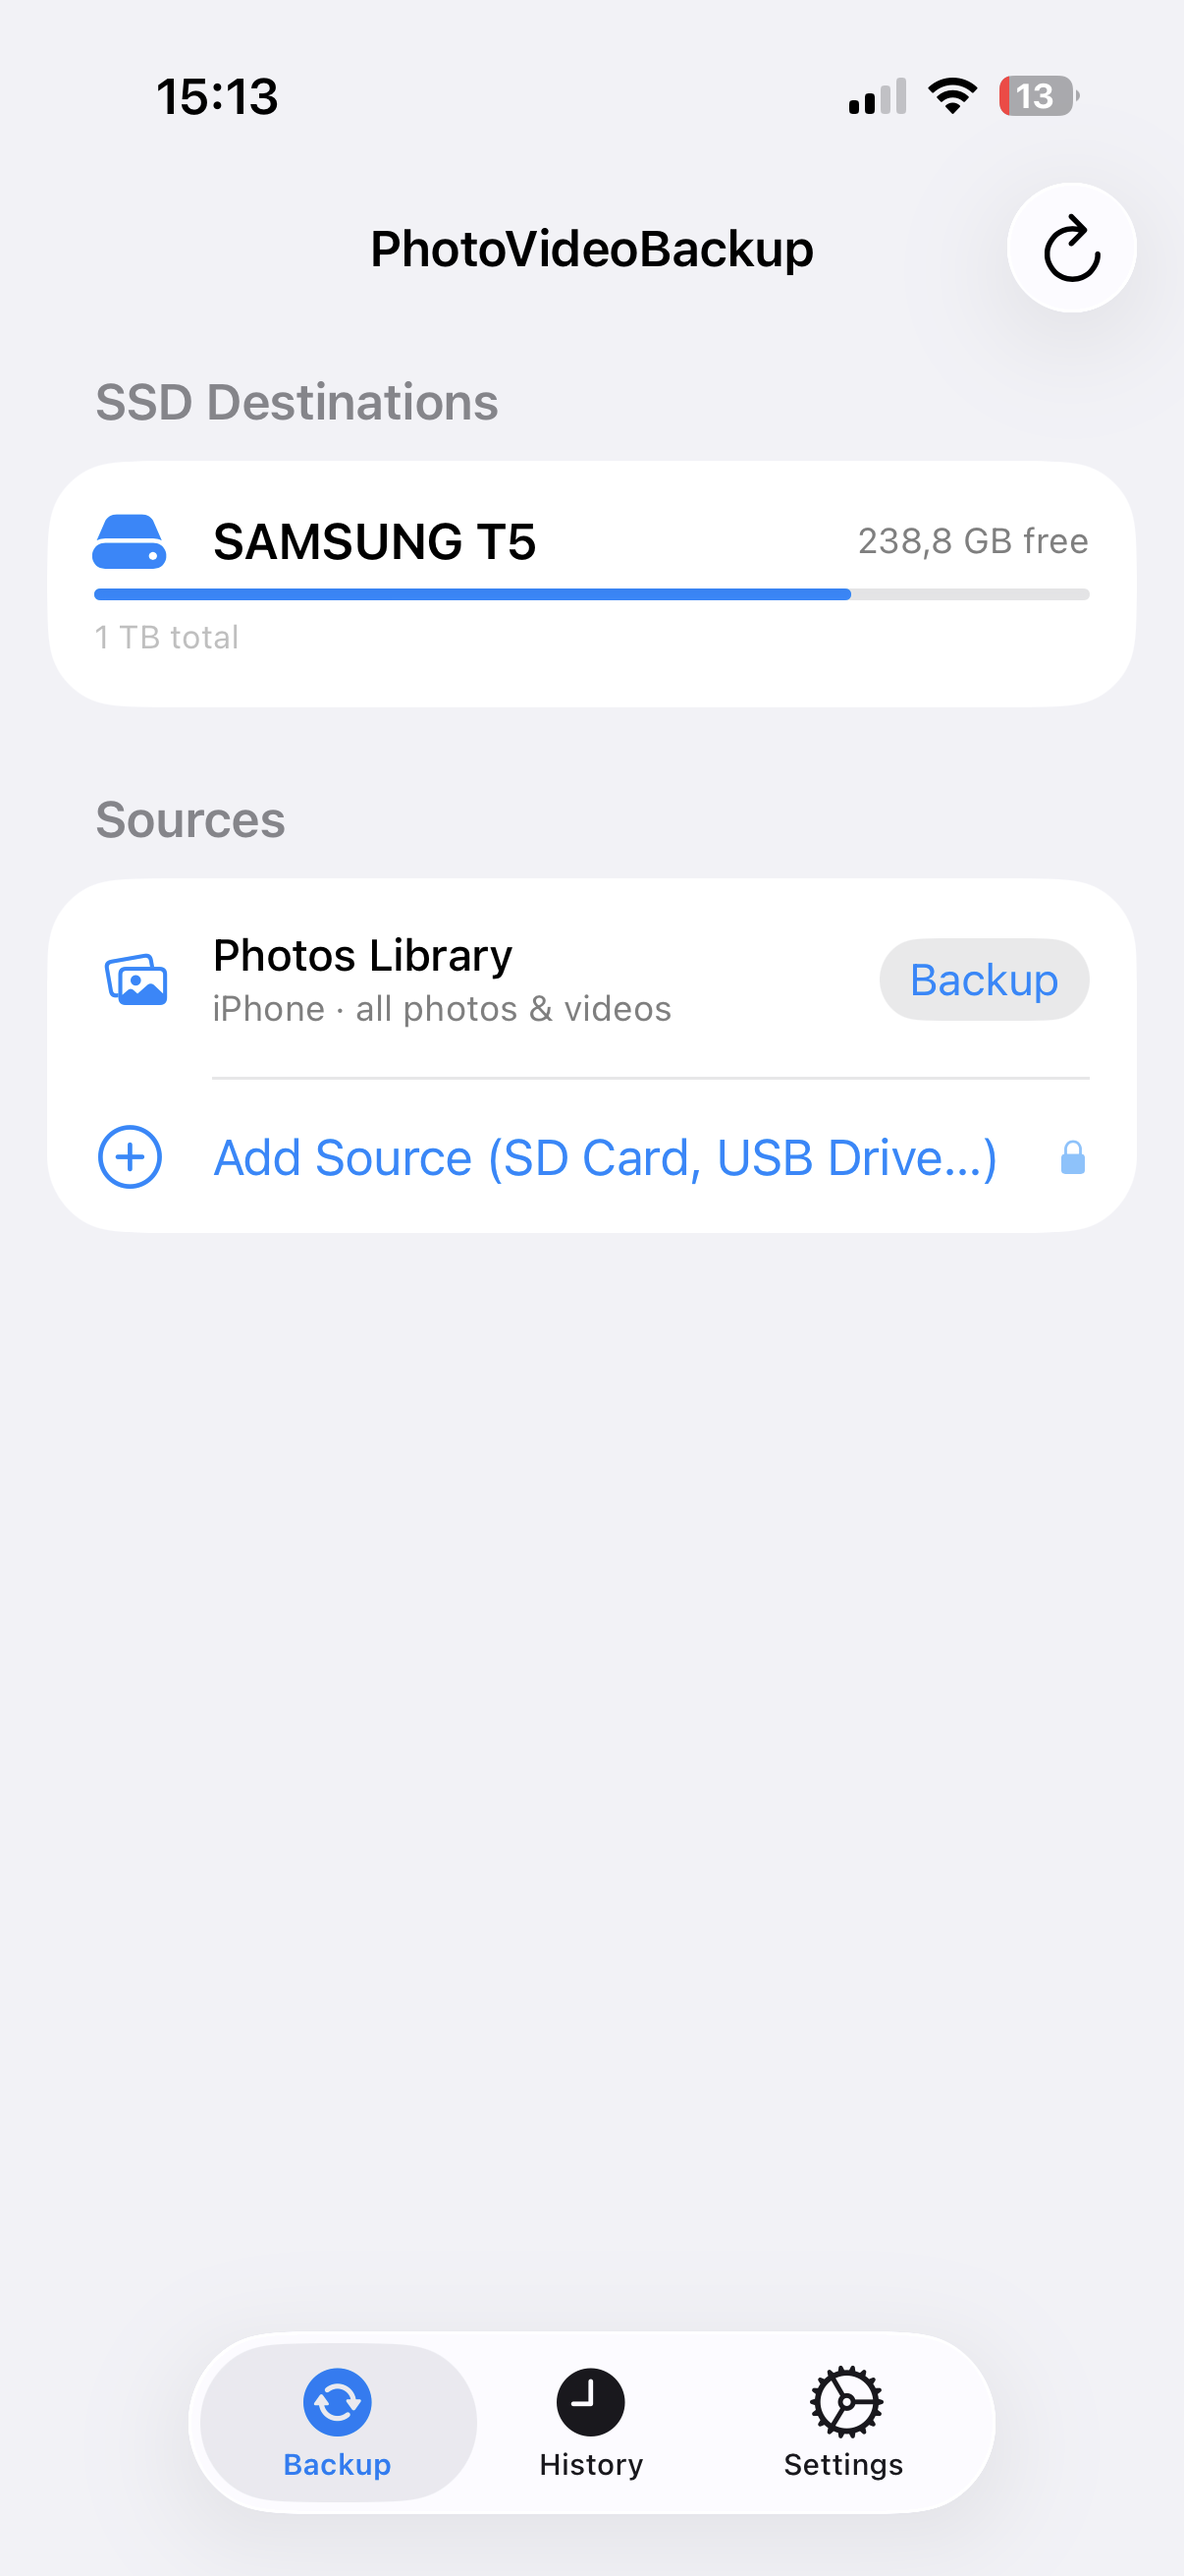
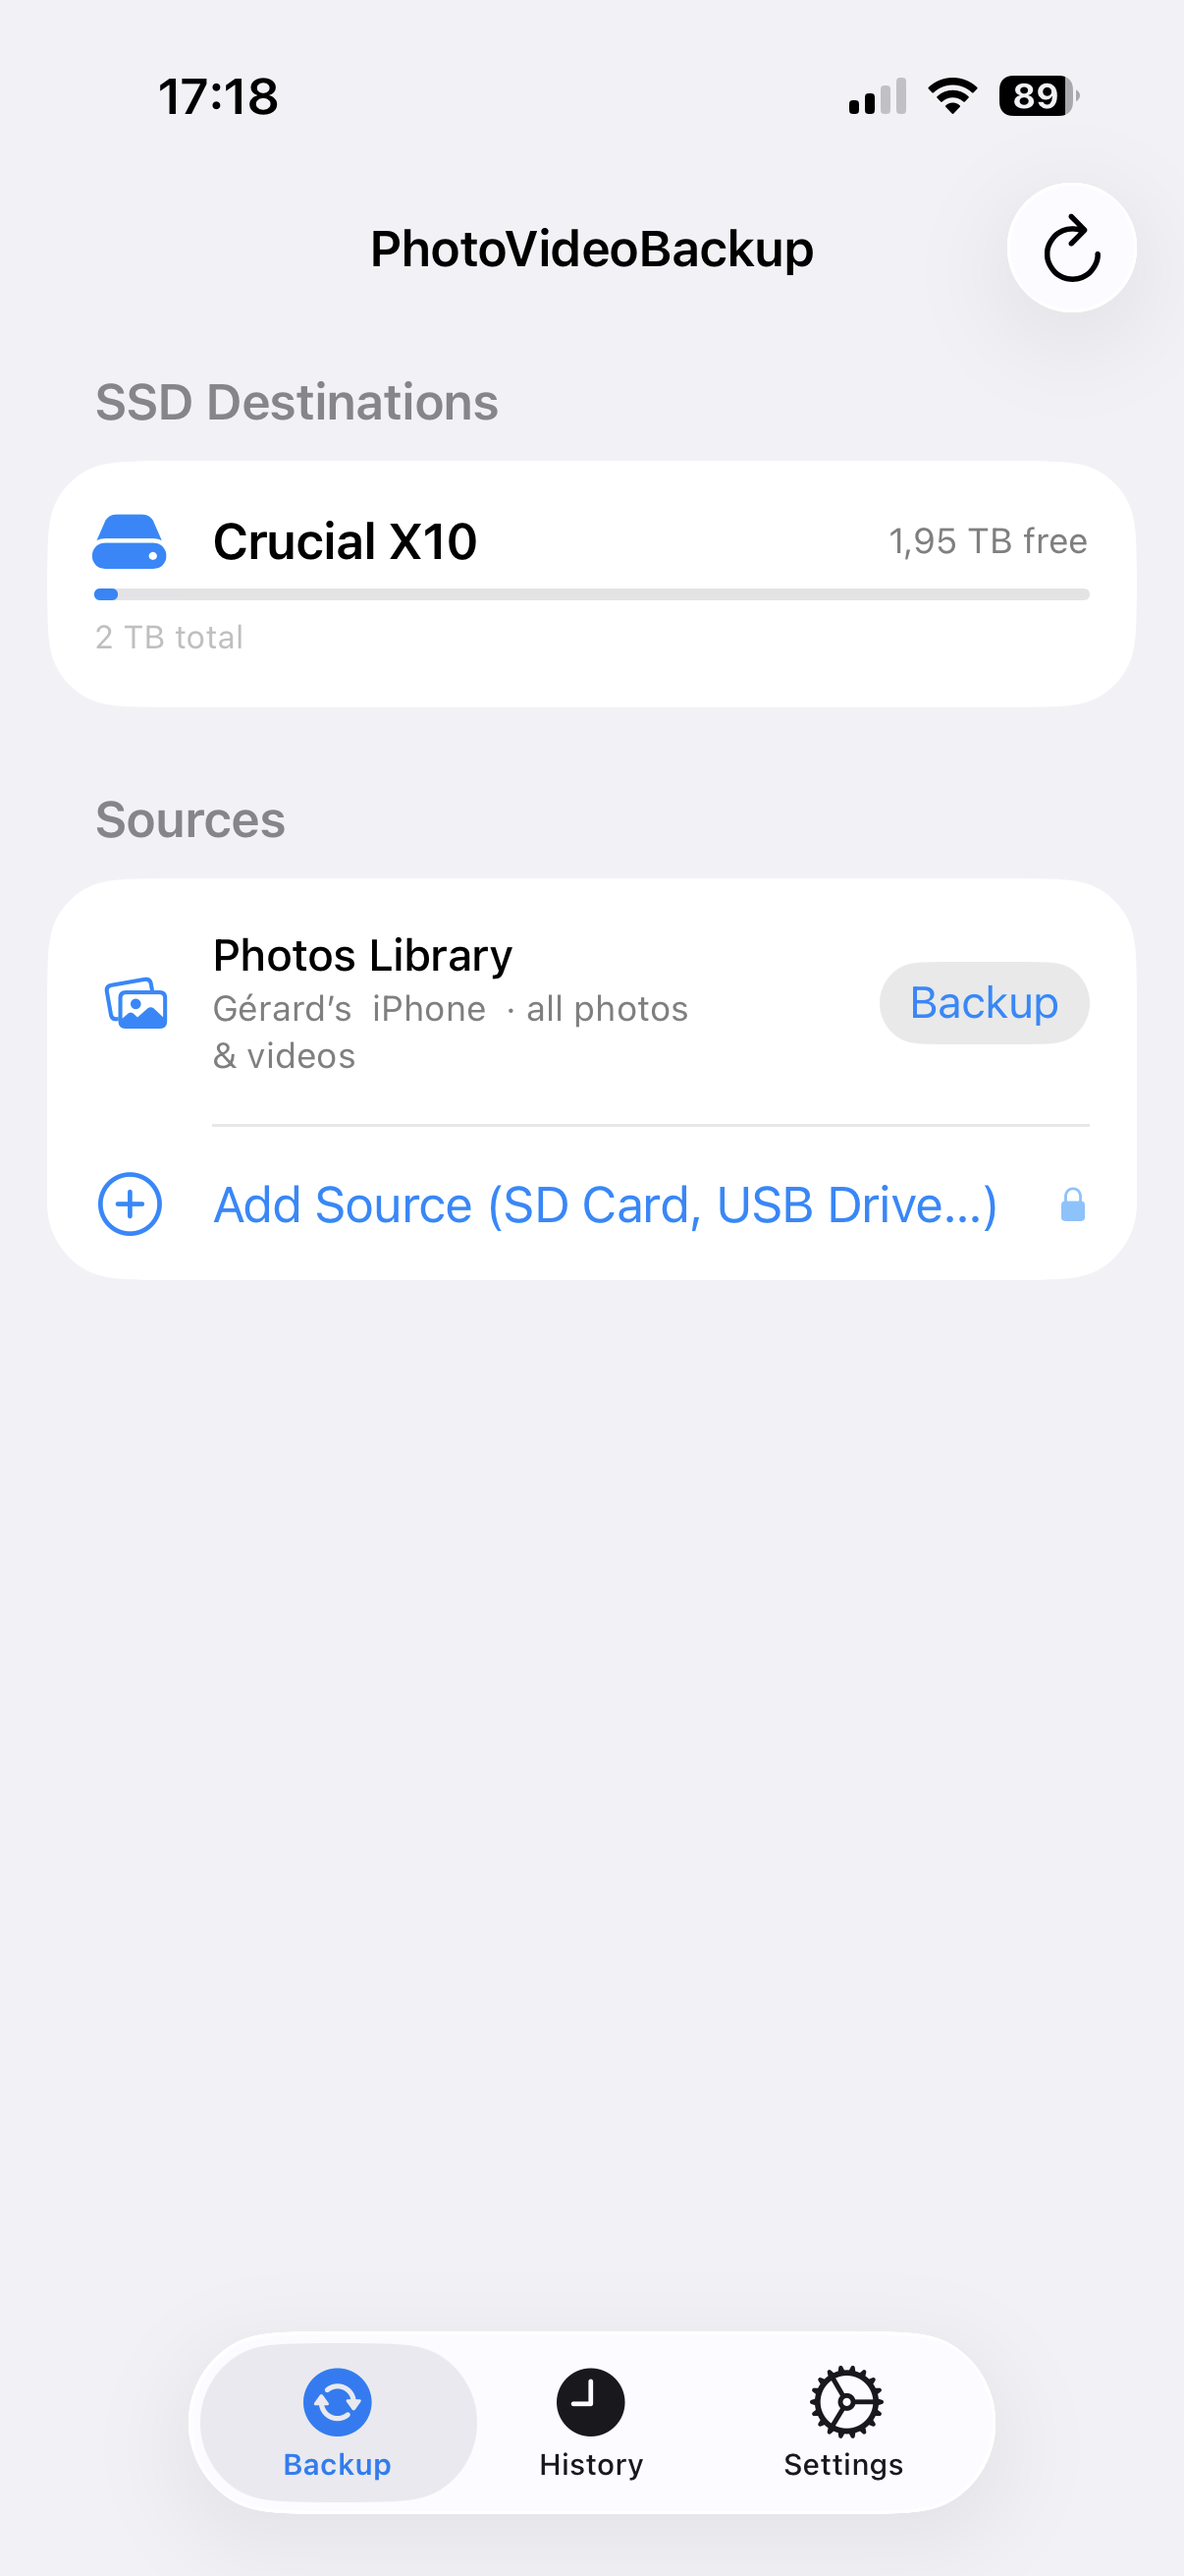
Update documentation with device name feature and new screenshots

diff --git a/index.md b/index.md
@@ -79,23 +79,25 @@ Tap **Allow Full Access**. Without this permission, the app cannot read your pho
 
 ## 5. Setting Up Your SSD
 
-Before you can back anything up, you need to tell the app where to save the files — that is, which folder on your SSD to use.
+Before you can back anything up, you need to tell the app where to save the files and give your device a name.
 
-### Step 1 — Plug in your SSD
-
-Connect your SSD to your iPhone using its USB-C cable.
-
-### Step 2 — Open Settings
+### Step 1 — Name your device
 
 Tap the **Settings** tab at the bottom of the screen (the gear icon).
 
-![Settings tab — no SSD configured yet](images/settings_empty.png)
+At the top of the page you will see an **iPhone / iPad** section with a **Folder name** field. Tap it and type a name that identifies your device — for example **iPhone de Gérard** or **iPad Pro Camille**.
 
-Both destination slots show "Not configured". This is normal the first time.
+![Settings — Folder name field](images/settings_device_name.png)
+
+> **This name is used as the folder name on the SSD.** If two people back up to the same SSD, each device needs a different name so their files stay separate. The app will not start a backup until a name is set.
+
+### Step 2 — Plug in your SSD
+
+Connect your SSD to your iPhone using its USB-C cable.
 
 ### Step 3 — Choose a destination folder
 
-Tap **Choose…** next to "SSD 1 (primary)".
+Below the device name, the **SSD Destinations** section shows two slots. Tap **Choose…** next to "SSD 1 (primary)".
 
 A file browser will open. Navigate to your SSD — it will appear in the list of locations. Tap on it to select the top-level folder (or a specific folder inside it if you prefer to keep things organised).
 
@@ -121,7 +123,11 @@ At the top you will see your SSD with its name, how much space is free, and a ba
 
 ### Step 2 — Start the backup
 
-In the **Sources** section, find the **Photos Library** row. It shows your iPhone name (for example "iPhone · all photos & videos").
+In the **Sources** section, find the **Photos Library** row. It shows the device name you set in Settings (for example "iPhone de Gérard · all photos & videos").
+
+> If you see "Nom non configuré" and an orange warning (see below), go to Settings and fill in the **Folder name** field first.
+
+![Dashboard — device name not configured](images/dashboard_no_device_name.png)
 
 Tap the **Backup** button on that row.
 
@@ -276,7 +282,7 @@ Your SSD is either not plugged in, or you have not set up a destination folder y
 Those photos are stored in iCloud and are not fully downloaded on your iPhone. The app automatically downloads them before copying. This requires a Wi-Fi or cellular connection and takes extra time depending on your internet speed.
 
 **Q: Can I use the app on two different iPhones to back up to the same SSD?**  
-Yes. Each iPhone creates its own named folder on the SSD (for example `Gerard_iPhone` and `Camille_iPhone`), so the files never get mixed up.
+Yes. Each iPhone has its own **Folder name** setting (in Settings → iPhone / iPad). Give each device a different name before the first backup — for example **iPhone de Gérard** on one and **iPhone de Camille** on the other. Each device will create its own folder on the SSD and the files will never get mixed up.
 
 **Q: The progress bar says 3% and seems stuck — is it frozen?**  
 Probably not. The first few files processed during a backup of the iPhone photo library are often large video files, which take longer individually. The percentage will start moving faster once it gets to smaller files. Wait a few minutes before worrying.
@@ -289,7 +295,7 @@ No. Everything happens locally between your iPhone and your SSD. The only except
 
 ---
 
-*Documentation last updated: April 2026*
+*Documentation last updated: April 8, 2026*
 
 ---
 
